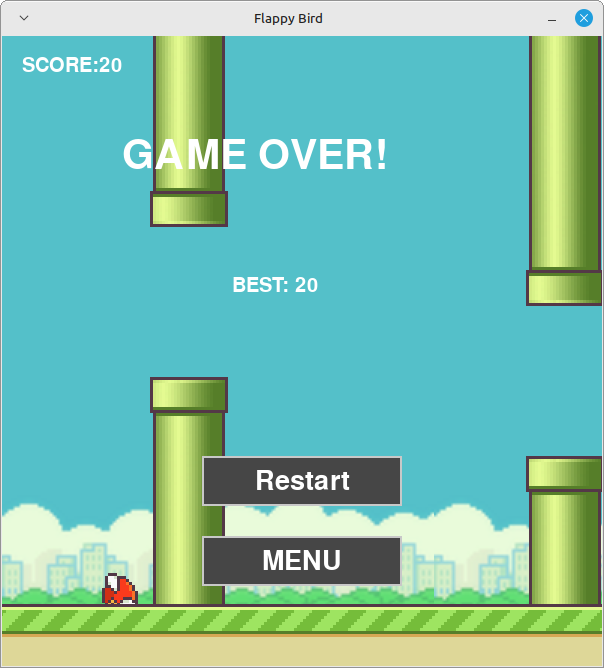
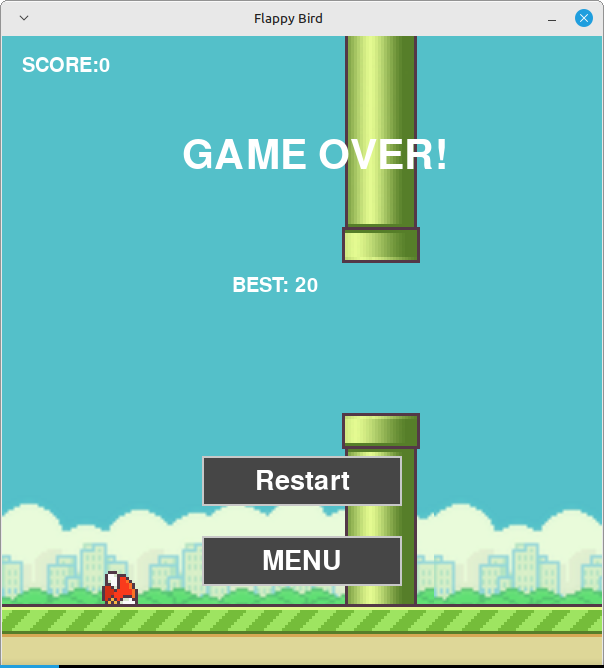
centered the buttons and the game over label and updated the screenshots

diff --git a/main.py b/main.py
@@ -30,9 +30,9 @@ def main():
     # Create buttons
     restart_button = Button(SCREEN_WIDTH // 2 - 100, 420, None, "Restart", 200, 50)
     menu_button = Button(SCREEN_WIDTH // 2 - 100, 500, None, "MENU", 200, 50)
-    play_button = Button(SCREEN_WIDTH // 2 - 100, 200, None, "NEW GAME", 250, 50)
-    scores_button = Button(SCREEN_WIDTH // 2 - 100, 270, None, "HIGH SCORES", 250, 50)
-    quit_button = Button(SCREEN_WIDTH // 2 - 100, 340, None, "QUIT", 250, 50)
+    play_button = Button(SCREEN_WIDTH // 2 - 250 // 2, 200, None, "NEW GAME", 250, 50)
+    scores_button = Button(SCREEN_WIDTH // 2 - 250 // 2, 270, None, "HIGH SCORES", 250, 50)
+    quit_button = Button(SCREEN_WIDTH // 2 - 250 // 2, 340, None, "QUIT", 250, 50)
     back_button = Button(SCREEN_WIDTH // 2 - 100, 500, None, "BACK", 200, 50)
     submit_button = Button(SCREEN_WIDTH // 2 - 100, 350, None, "PLAY", 200, 50)
     

diff --git a/game.py b/game.py
@@ -107,5 +107,5 @@ class Game:
             self.highest_score = max(self.highest_score, self.score)
         
         # Display game over text
-        self.draw_text("GAME OVER!", FONT, WHITE, SCREEN_WIDTH // 2 - 180, 100)
+        self.draw_text("GAME OVER!", FONT, WHITE, SCREEN_WIDTH // 2 - 120, 100)
         self.draw_text(f"BEST: {self.highest_score}", SMALL_FONT, WHITE, SCREEN_WIDTH // 2 - 70, 240)
